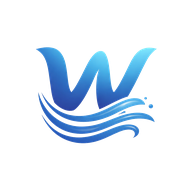
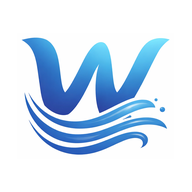
Add files via upload
new icon

Changed region(s): [[0.0938, 0.1875, 0.875, 0.8125]]

diff --git a/index.html b/index.html
@@ -8,7 +8,7 @@
     <meta name="apple-mobile-web-app-title" content="myWind" />
     <meta name="theme-color" content="#F7F9FC" media="(prefers-color-scheme: light)" />
     <meta name="theme-color" content="#0F172A" media="(prefers-color-scheme: dark)" />
-    <link rel="apple-touch-icon" href="/icon-192.png" />
+    <link rel="apple-touch-icon" sizes="180x180" href="/apple-touch-icon.png" />
     <link rel="manifest" href="/manifest.json" />
     <link rel="preconnect" href="https://api.open-meteo.com" />
     <title>myWind</title>
